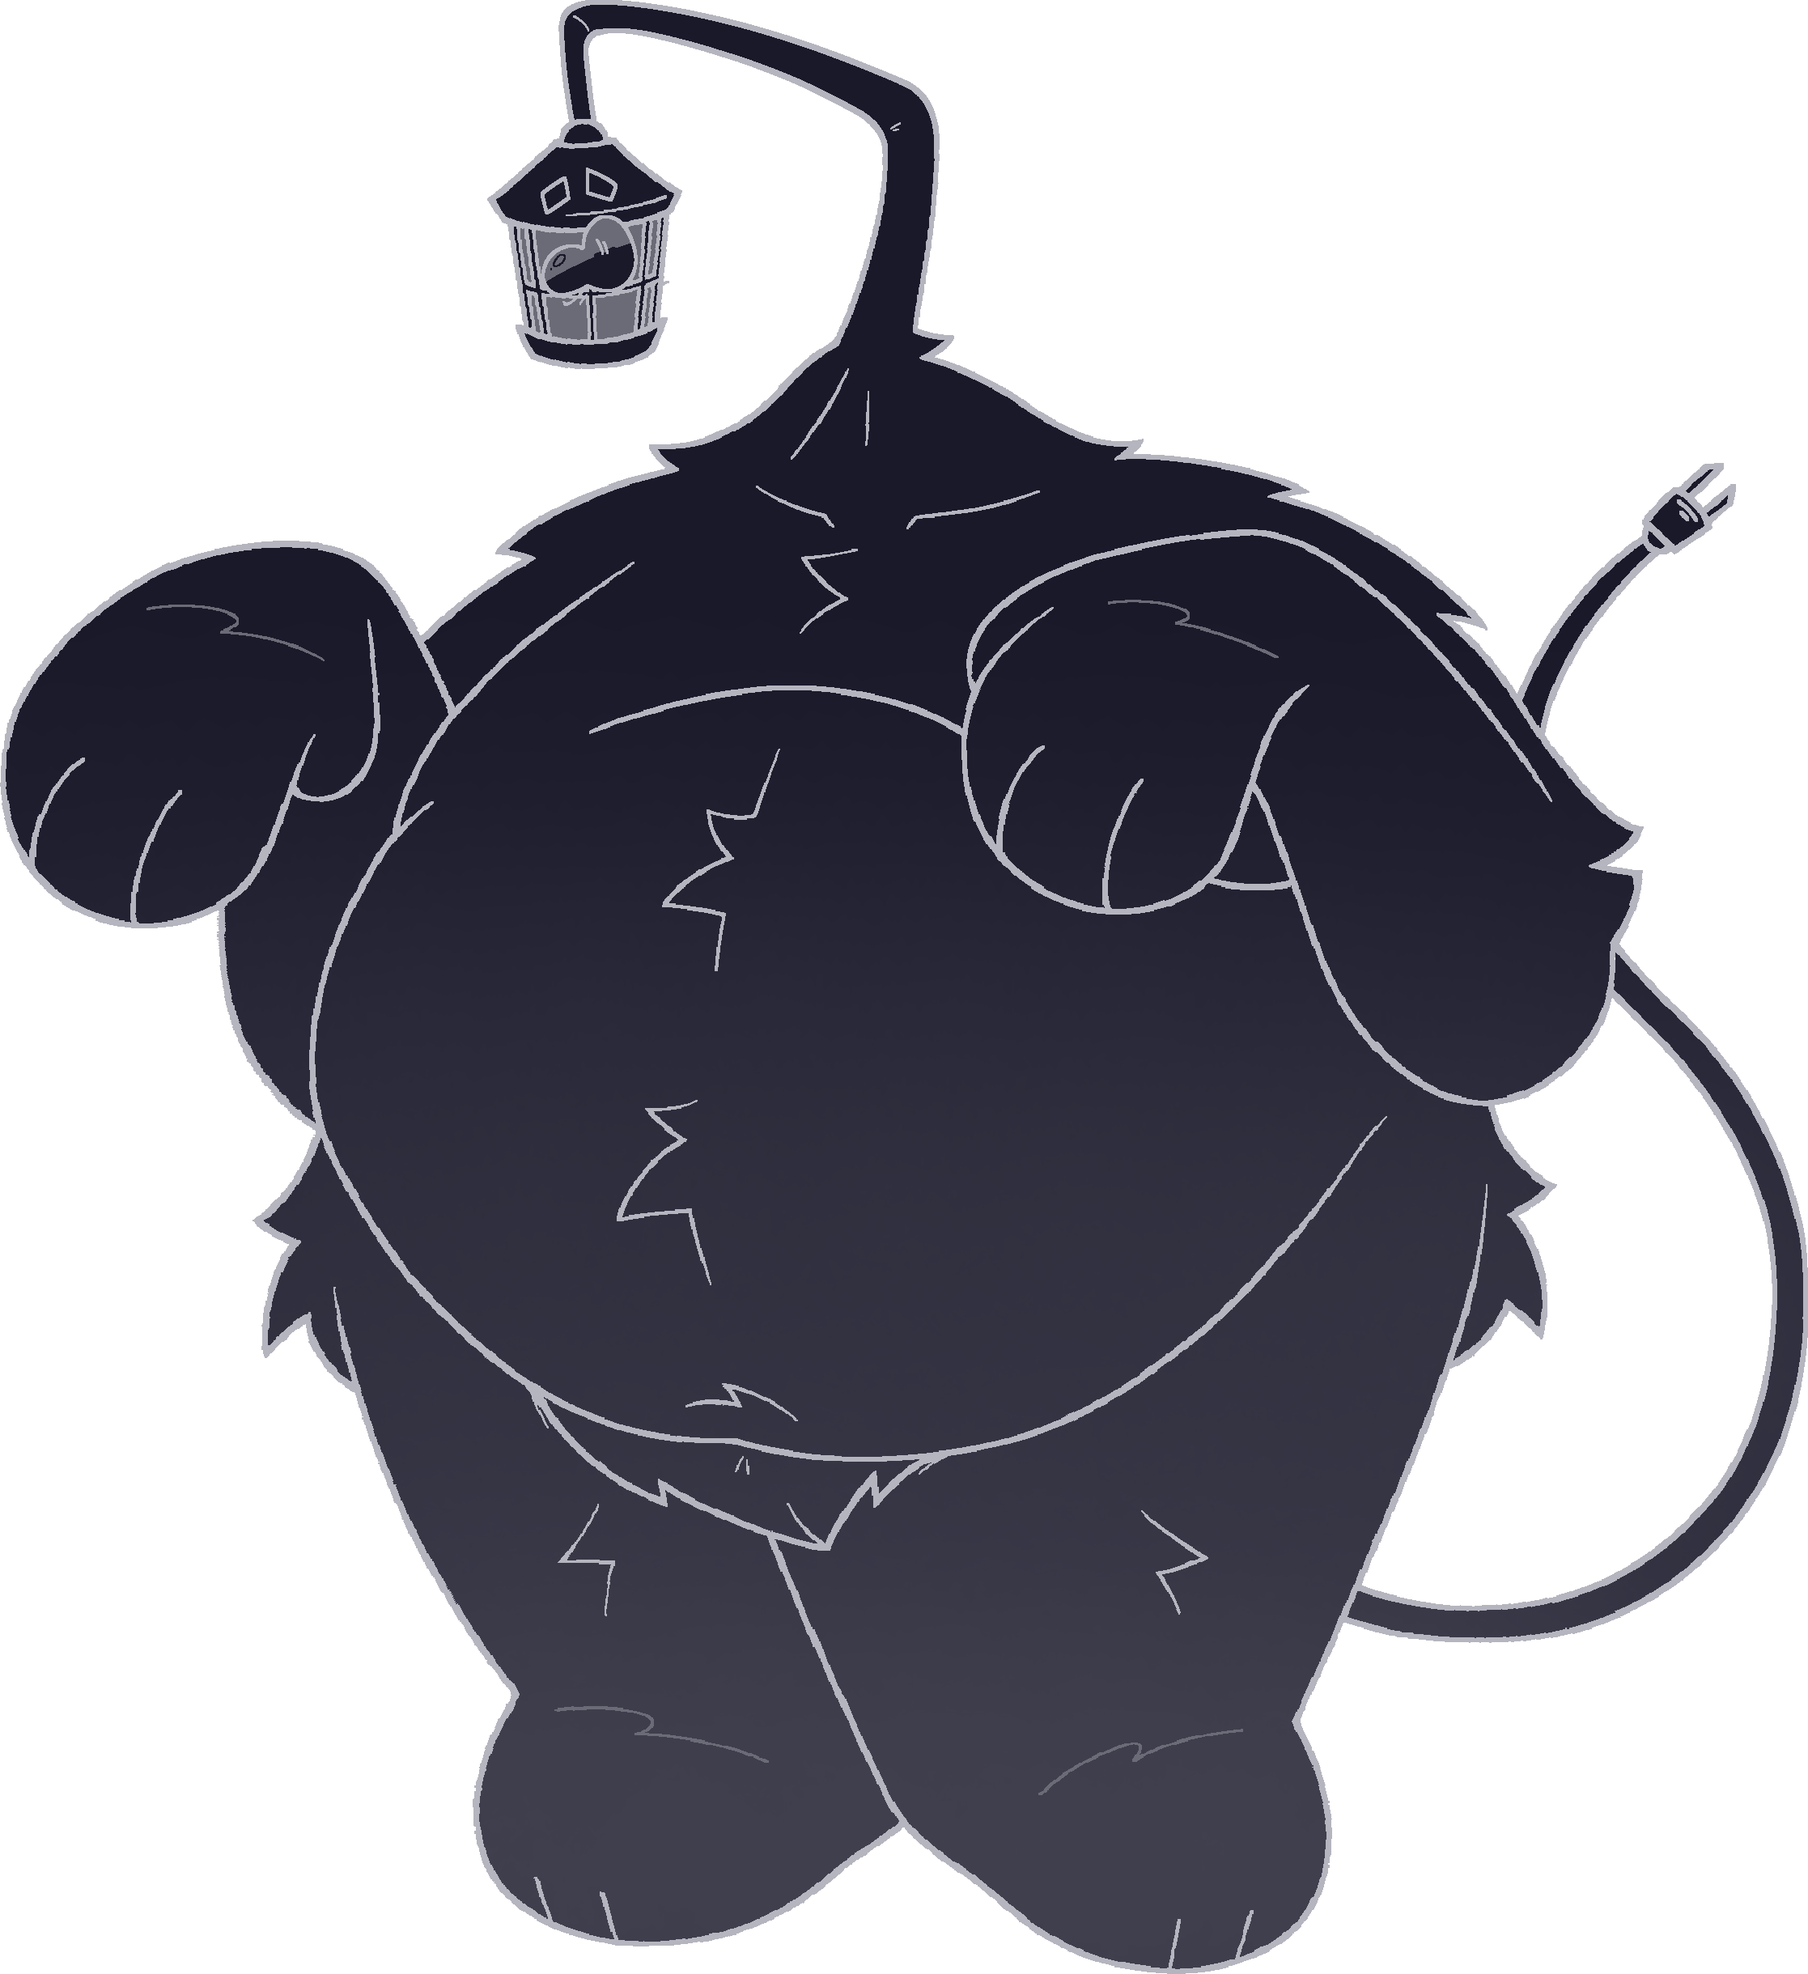
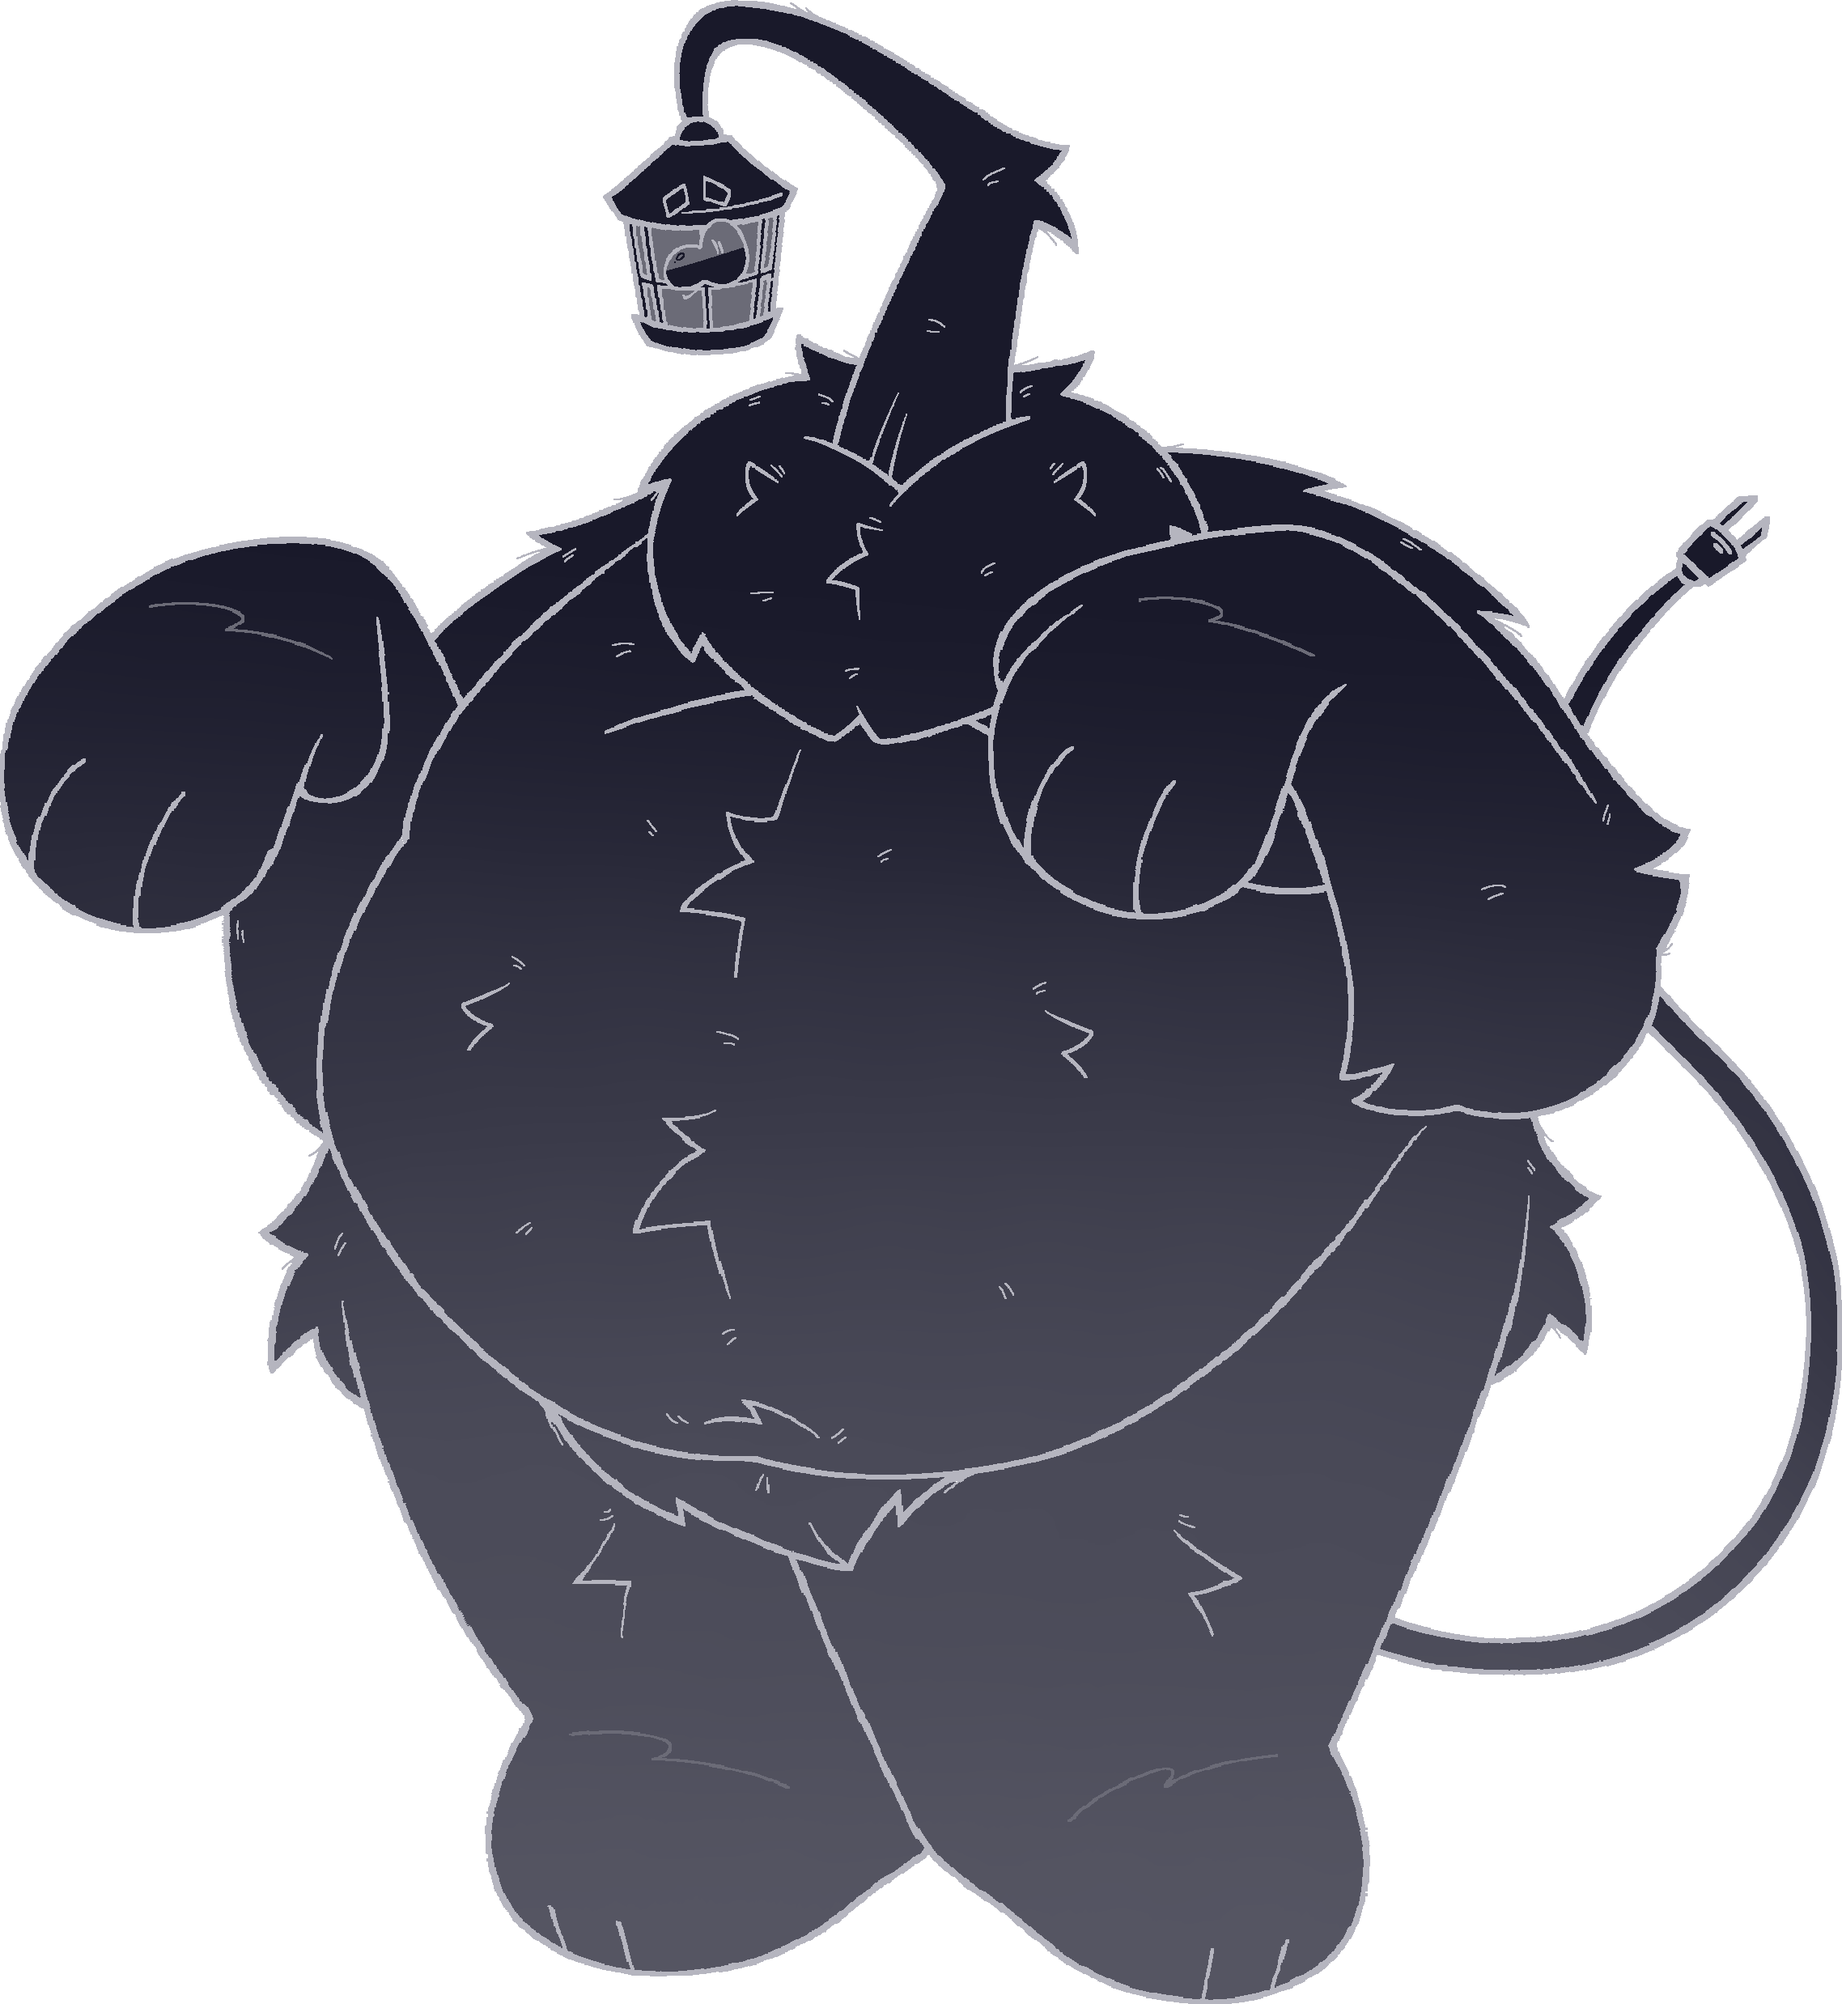
meow meow morw meow moew rw

diff --git a/characters/unknown/index.html b/characters/unknown/index.html
@@ -19,7 +19,7 @@
             <h3><a href="../index.html">back to characters</a></h3>
         </div>
 
-        <h1><u>???</u></h1> <br>
+        <h1><u>??? <i>(unknown)</i></u></h1> <br>
         
         <table>
             <tr>
@@ -28,12 +28,19 @@
                     <h3><u>info</u></h3>
                     <i>ageless, he/they/it <br>
                     gay <br>
-                    ???, 8'0" <br></i>
+                    ???, 8'0"</i>
+                    <br><br>
+                    i usually call them "lantern guy" but they're really based off a streetlight
+                    <br><br>
+                    [<a href="./sheet.png"><i>view reference sheet</i></a>]
                 </td>
             </tr>
         </table><hr><br>
 
         <h2><u>other pictures</u></h2><br>
-        <img src="1.png" height="360">
+        <img src="1.png" width="480">
+        <p>(old design)</p> <br><br>
+        <img src="2.png" width="480"> <br><br>
+        <img src="3.png" width="480">
     </body>
 </html>
